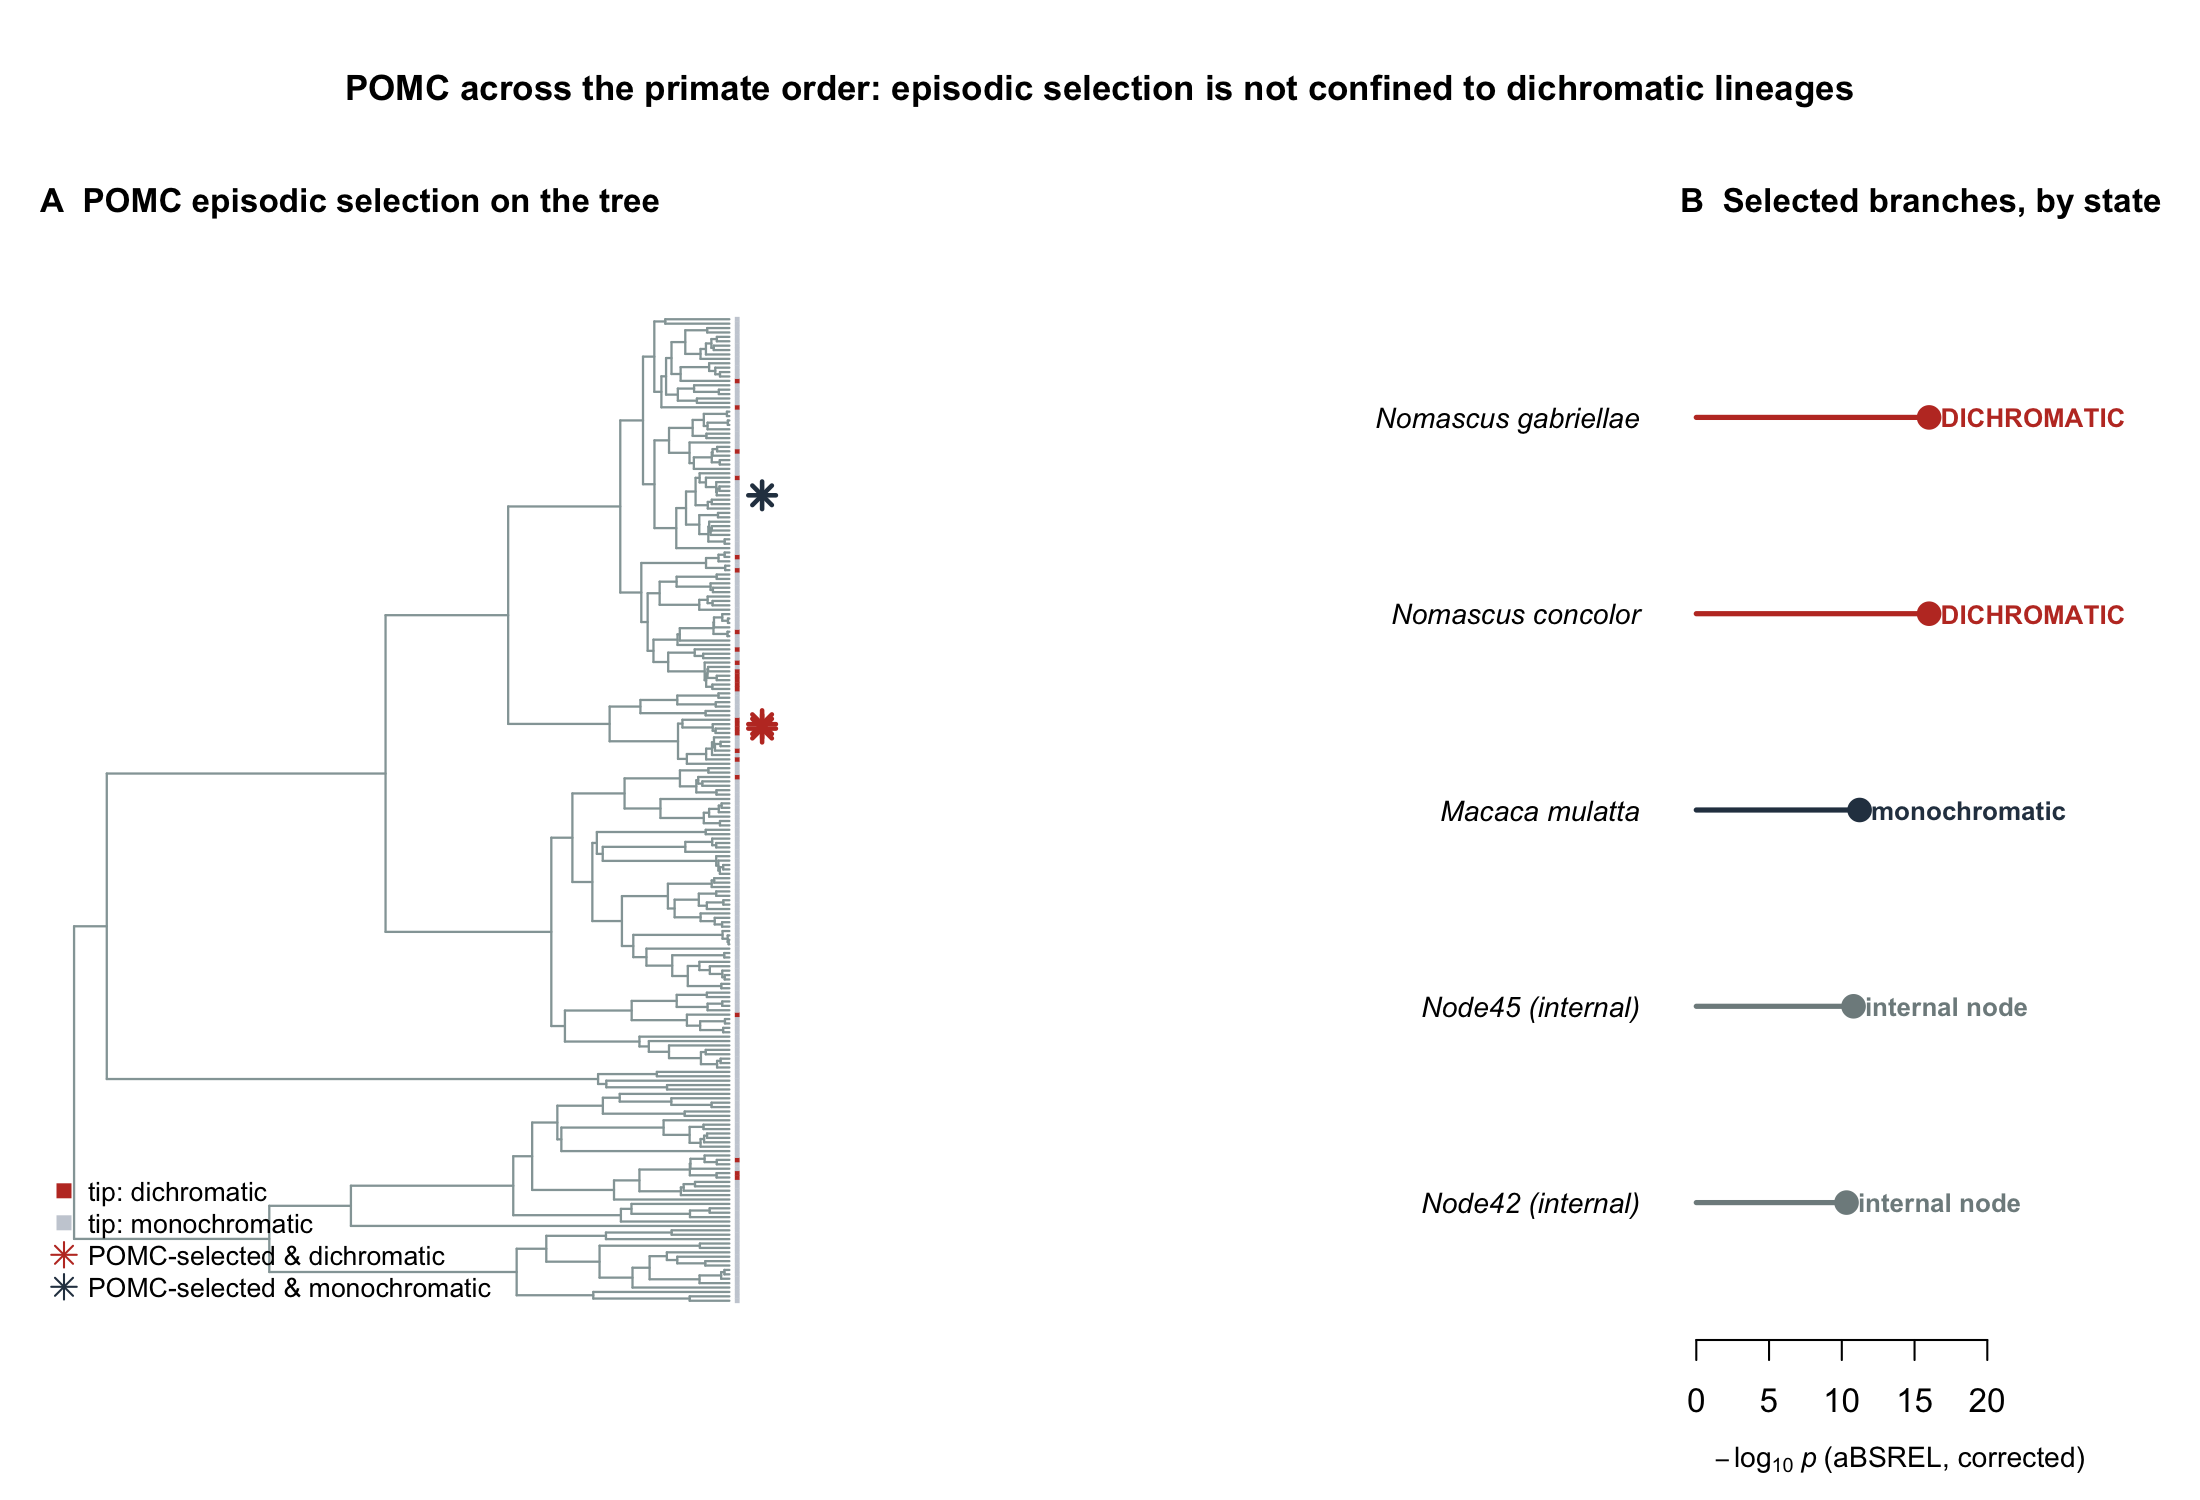
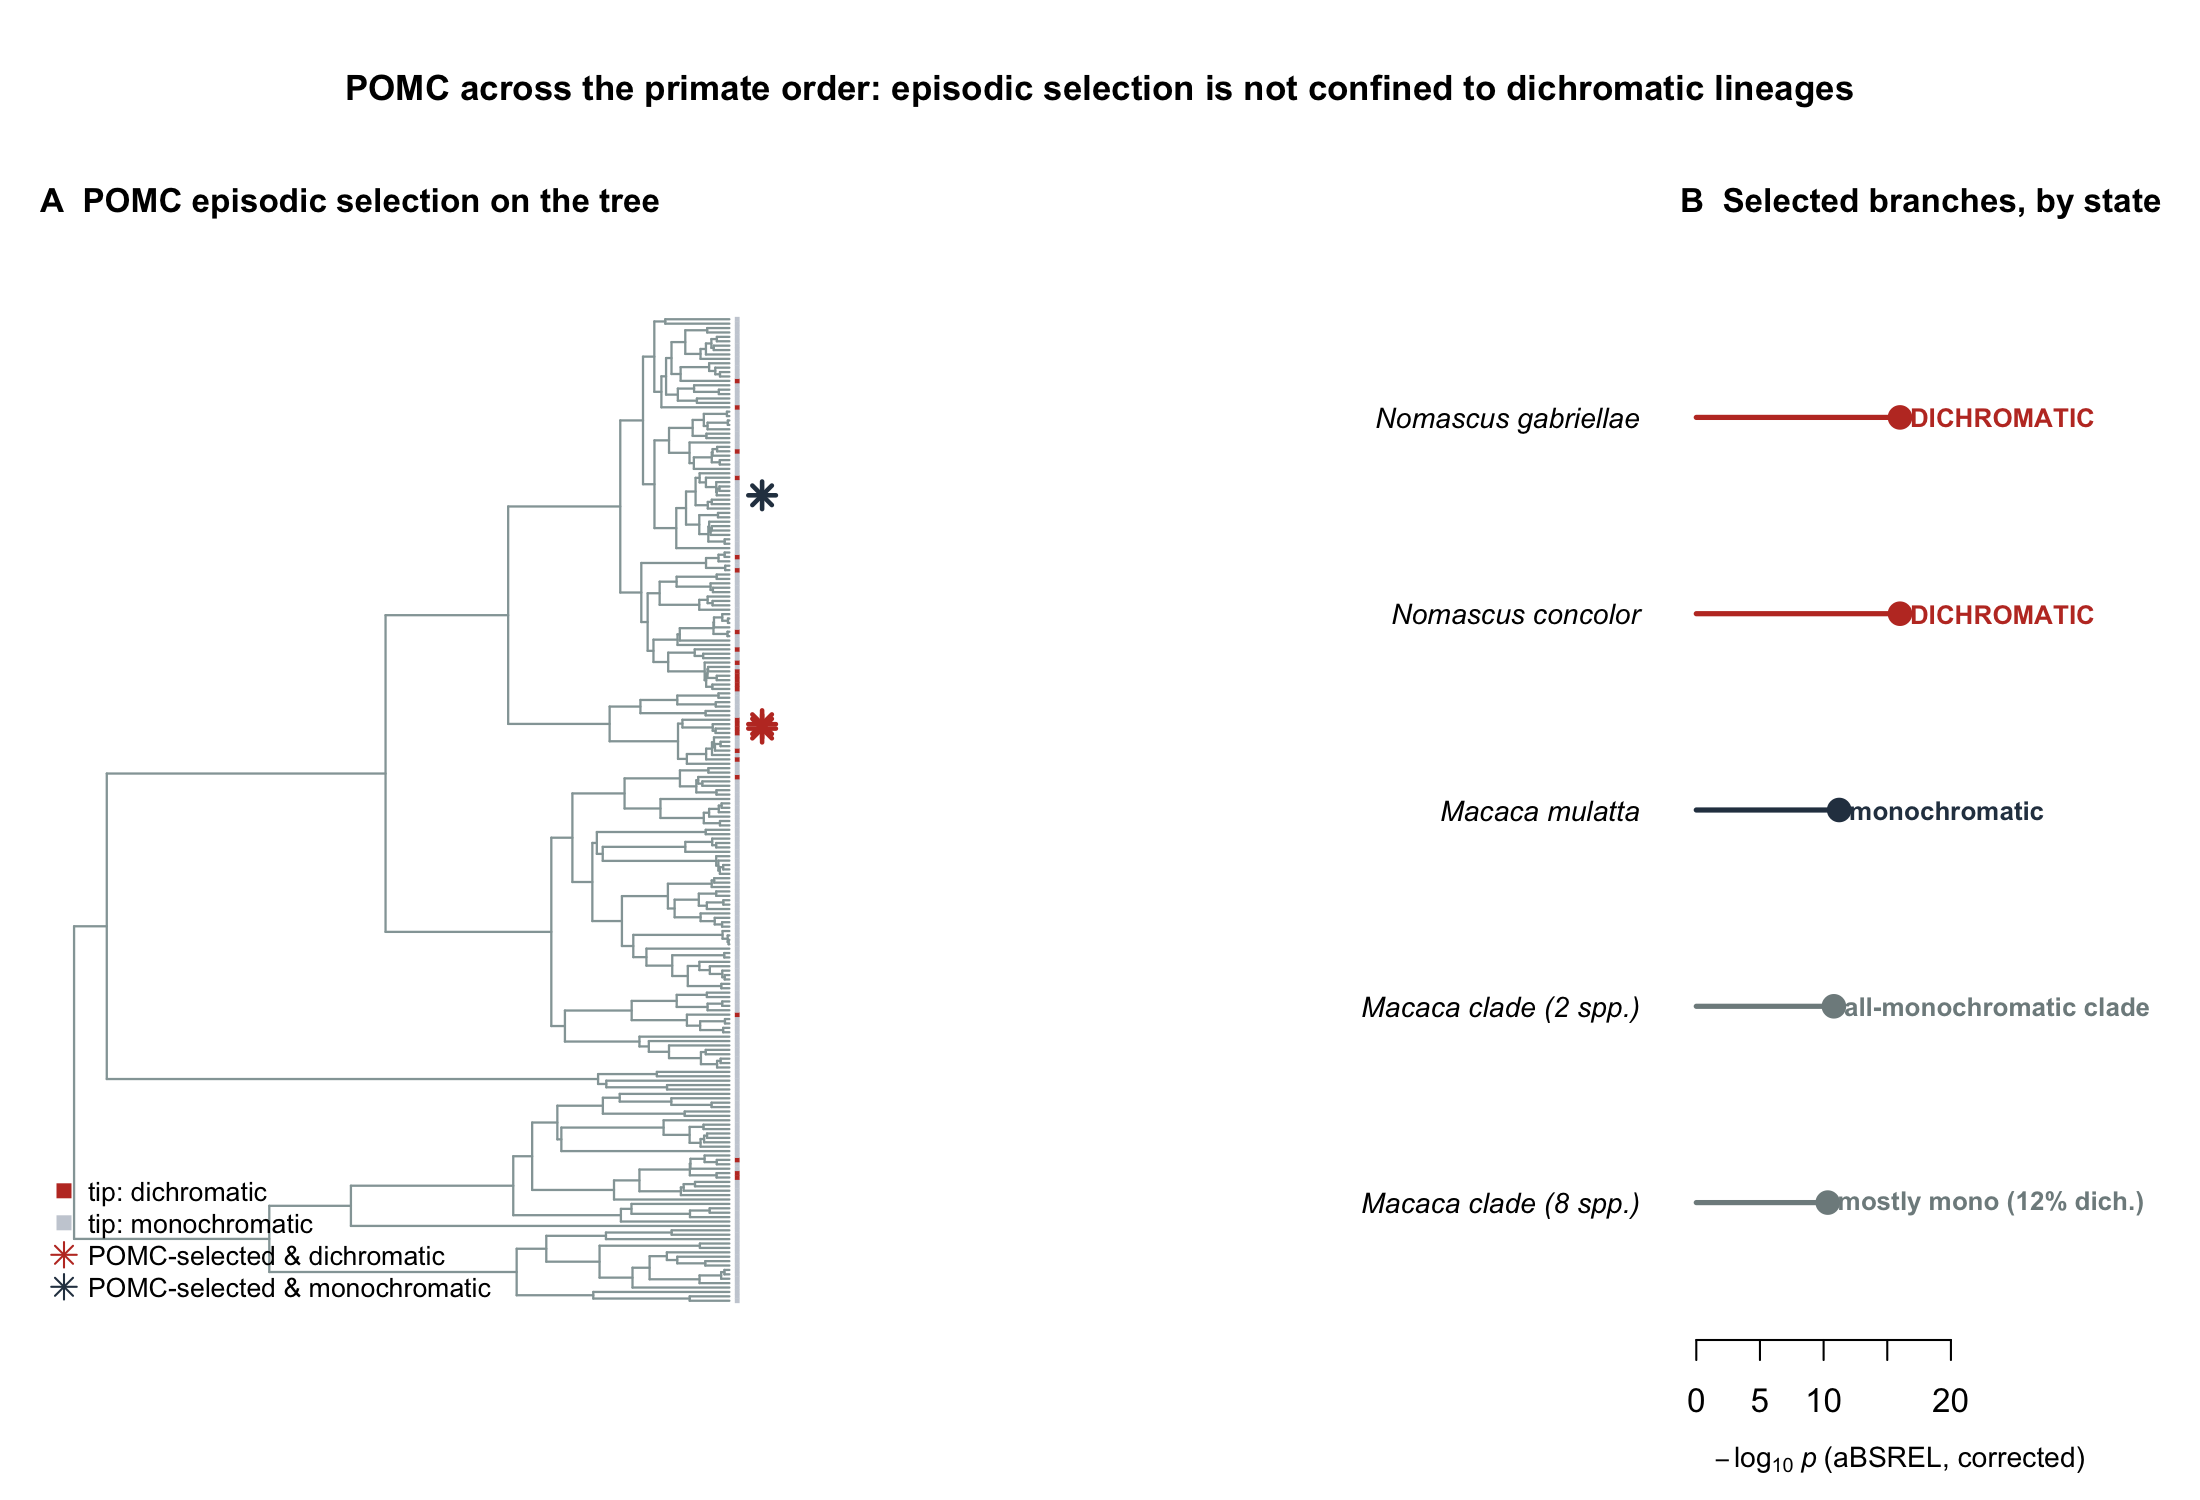
fix(nb15): resolve opaque POMC internal-node labels to the clades they subtend
The POMC panel showed two branches as 'Node42'/'Node45 (internal)', which are HYPHY's
per-gene-tree branch labels - not comparable across genes and meaningless on the phenotype
tree. Resolve each from the labelled gene tree in POMC.ABSREL.json: both are Macaca clades
(8 spp., 12% dichromatic; 2 spp., 0% dichromatic). Panel B now names the clade + its
dichromatic fraction instead of the raw NodeNN token. Prose + caption updated; this sharpens
the finding - 4 of the 5 POMC-selected branches are monochromatic macaque lineages.
Also drop a 'the honest reading is' filler phrase in the same paragraph.

diff --git a/notebooks/nb15_source.py b/notebooks/nb15_source.py
@@ -480,15 +480,19 @@ else:
 # explicitly, coloured by dichromatism state, because the pattern is mixed and that mix is the
 # point: two of the selected tips — *Nomascus concolor* and *N. gabriellae* — are **dichromatic**
 # and fall exactly on the origin-8 lineage, but a third, *Macaca mulatta*, is **monochromatic**,
-# and the two remaining selected branches are internal nodes within the macaques whose descendants
-# are almost all monochromatic. So POMC is under selection on the origin-8 dichromatic lineage,
+# and the two remaining selected branches are internal *Macaca* clades — resolved from the POMC
+# gene tree in the aBSREL output (one an 8-species macaque clade that is 12% dichromatic, one a
+# 2-species clade with no dichromatic members), i.e. an essentially monochromatic macaque
+# radiation. (HYPHY labels internal branches "NodeNN" in each gene's own tree; those numbers are
+# not comparable across genes, so the figure names the clade each subtends rather than the raw
+# label.) So POMC is under selection on the origin-8 dichromatic lineage,
 # **but selection on POMC is not confined to dichromatic lineages** — the same conclusion the
 # whole-panel aBSREL scan reached (episodic selection hits dichromatic and monochromatic tips at
-# indistinguishable rates). The honest reading is: POMC is an interface gene that is evolving in
-# several primate lineages, one of which (the *Nomascus* gibbons) is a dichromatism origin. That
-# co-localisation is a concrete follow-up target, not evidence that POMC *causes* the phenotype —
-# aBSREL marks lineage-specific selection, not causation, and the *Macaca* signal shows the two
-# do not track each other one-to-one.
+# indistinguishable rates). The reading is: POMC is an interface gene evolving in several primate
+# lineages, one of which (the *Nomascus* gibbons) is a dichromatism origin. That co-localisation
+# is a concrete follow-up target, not evidence that POMC *causes* the phenotype — aBSREL marks
+# lineage-specific selection, not causation, and the *Macaca* signal shows the two do not track
+# each other one-to-one.
 
 # %% [markdown]
 # ### Figure 5b — POMC selection across the primate order
@@ -497,8 +501,10 @@ else:
 # grey = monochromatic) and the branches under episodic POMC selection starred — red star where
 # that branch is dichromatic, dark star where it is monochromatic. (B) The five POMC-selected
 # branches ranked by aBSREL significance and labelled by state. Two are dichromatic *Nomascus*
-# gibbons, one is monochromatic *Macaca mulatta*, and two are internal macaque nodes — so POMC
-# selection overlaps one dichromatism origin but is not restricted to dichromatic lineages.
+# gibbons, one is monochromatic *Macaca mulatta*, and two are internal branches of (essentially
+# monochromatic) *Macaca* clades, named by the clade each subtends rather than by HYPHY's
+# per-gene-tree "NodeNN" label — so POMC selection overlaps one dichromatism origin but is not
+# restricted to dichromatic lineages.
 
 # %%
 from IPython.display import Image, display